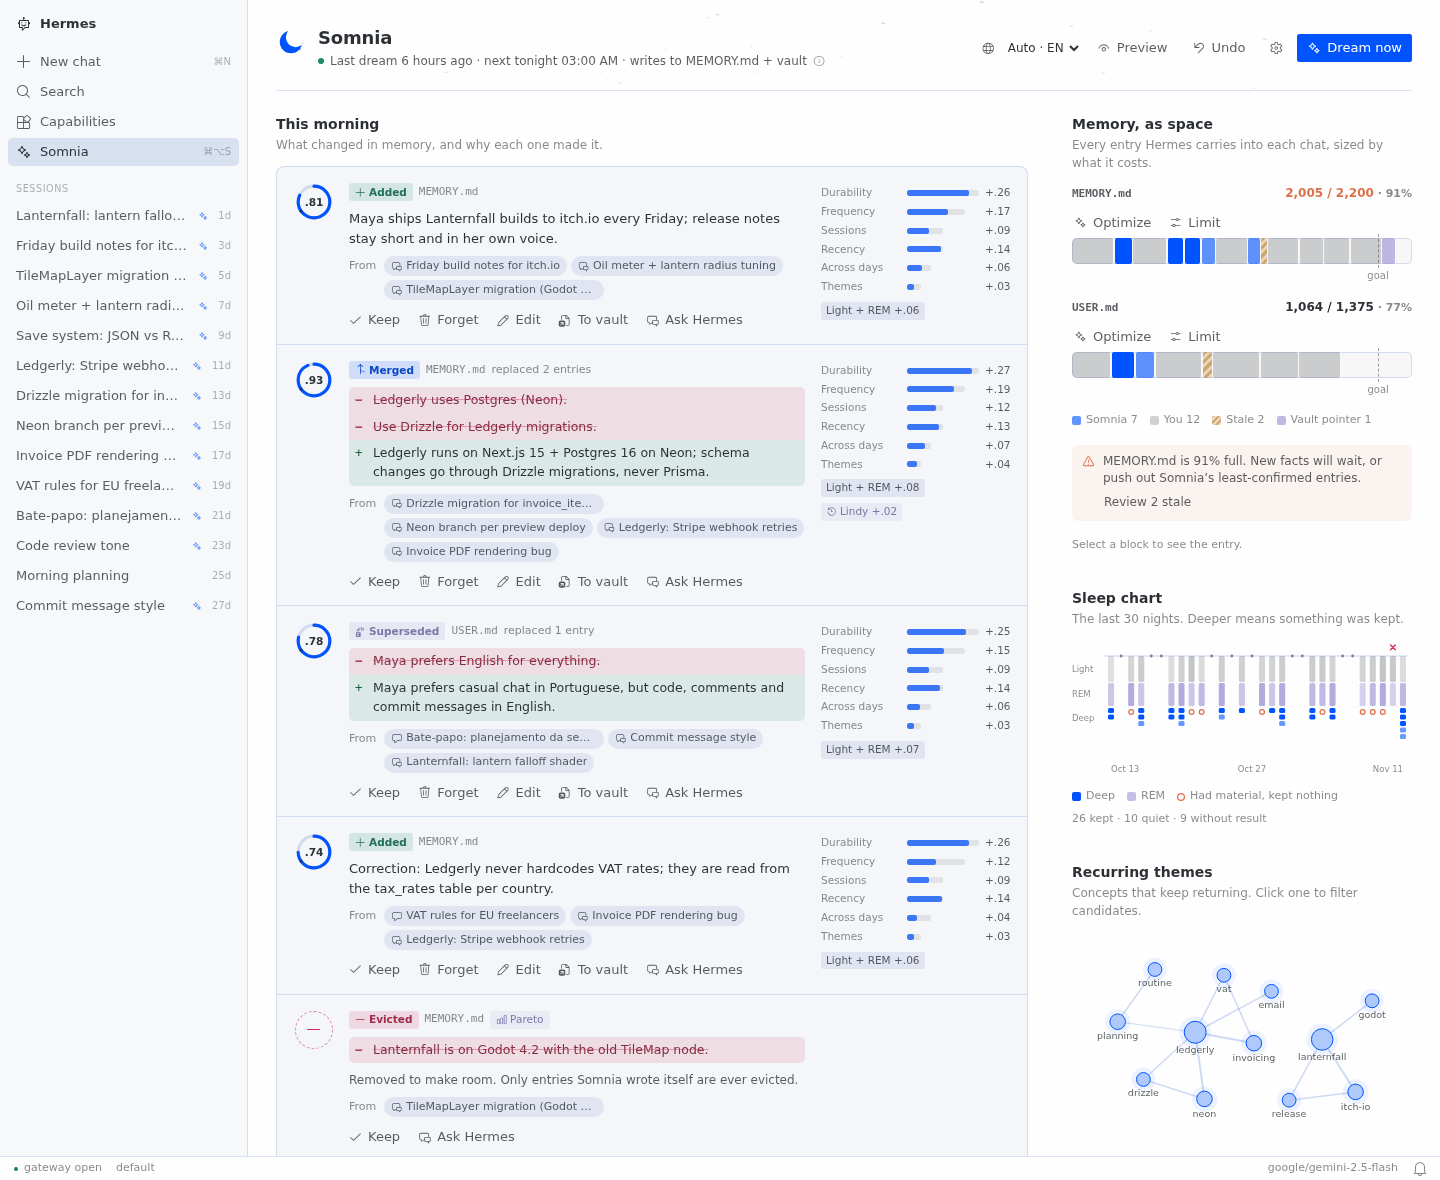
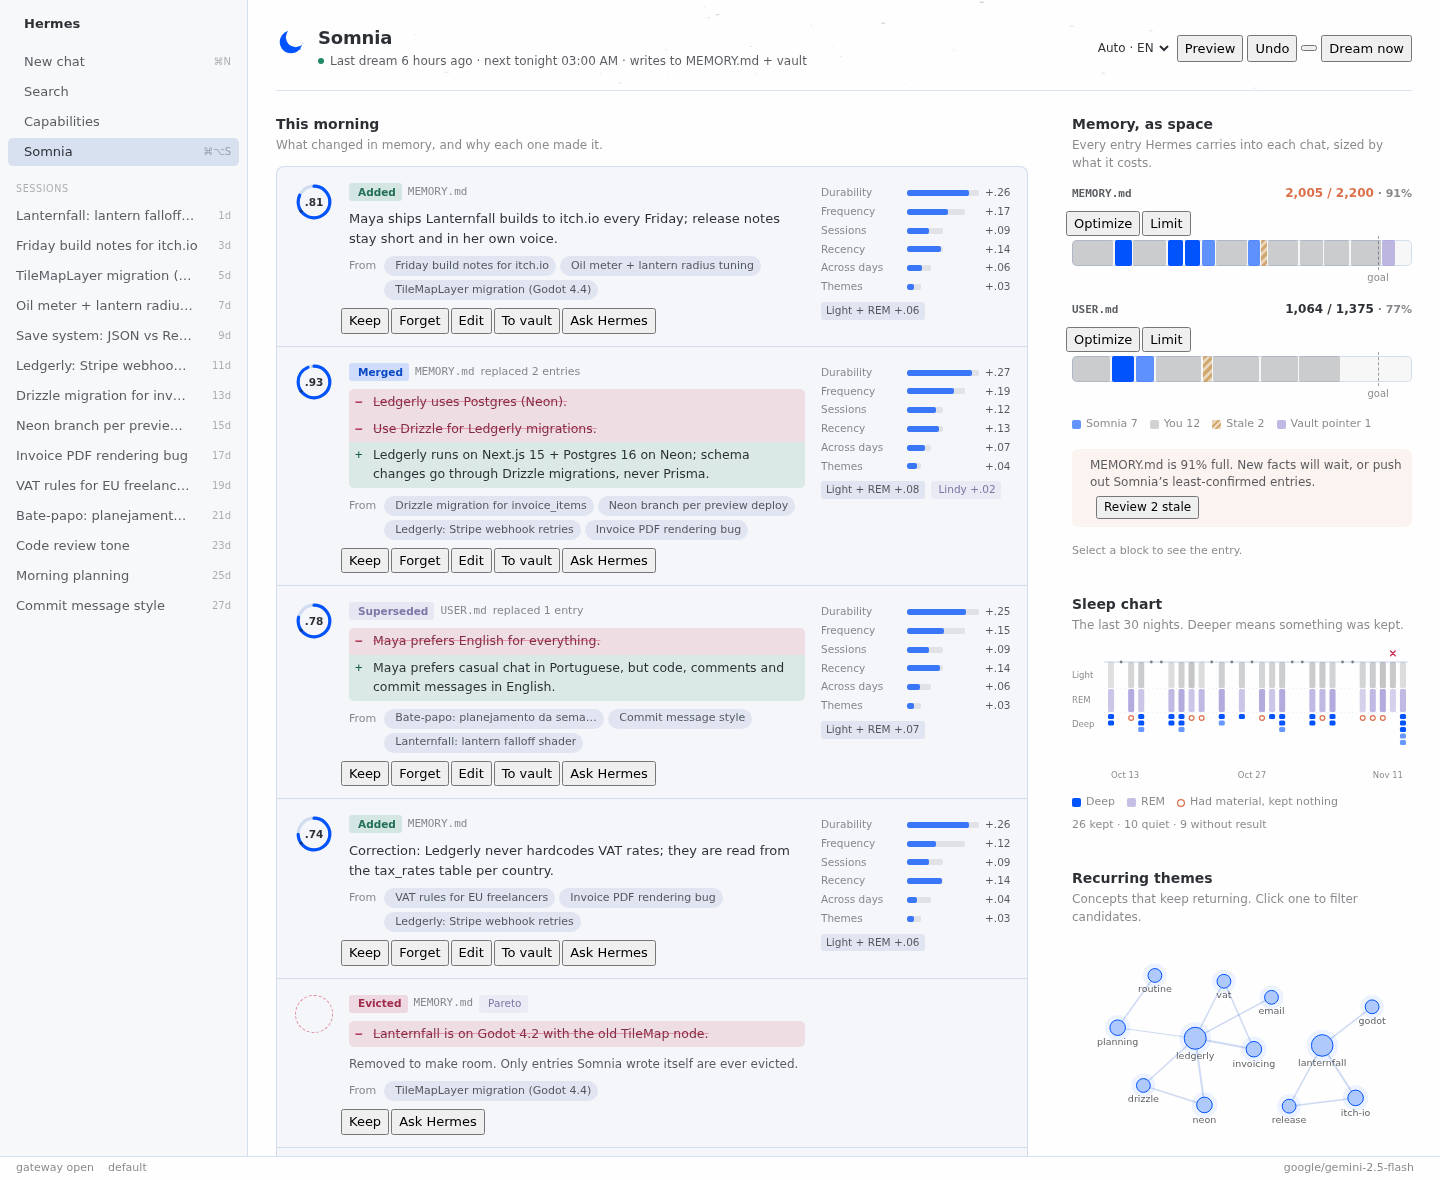
fix: Somnia 0.3.2 — new-chat card stacks the label over the fact, skips forgotten facts
- The "Last night I remembered" card in an empty chat now puts the label on top and the fact below
  (up to 3 lines, full text on hover), with "+N more" when the night kept more than one fact.
- Facts you forgot no longer show up in that card.
- README screenshots regenerated.

diff --git a/desktop/plugin.js b/desktop/plugin.js
@@ -474,7 +474,8 @@ const EN = {
     statusNew: n => `${n} new`,
     statusTip: n => `Somnia remembered ${n} ${plural(n, 'thing', 'things')} last night`,
     fed: n => `Fed ${n} ${plural(n, 'memory', 'memories')}`,
-    emptyChat: 'Last night I remembered:',
+    emptyChat: 'Last night I remembered',
+    emptyChatMore: n => `+${n} more`,
     open: 'Open Somnia',
     card: 'Somnia memory',
     reallyForget: 'Really forget?',
@@ -818,7 +819,8 @@ const PT = {
     statusNew: n => `${n} ${plural(n, 'novo', 'novos')}`,
     statusTip: n => `O Somnia lembrou ${n} ${plural(n, 'coisa', 'coisas')} esta noite`,
     fed: n => `Alimentou ${n} ${plural(n, 'memória', 'memórias')}`,
-    emptyChat: 'Esta noite eu lembrei:',
+    emptyChat: 'Esta noite eu lembrei',
+    emptyChatMore: n => `+${n} ${plural(n, 'outra', 'outras')}`,
     open: 'Abrir Somnia',
     card: 'Memória do Somnia',
     reallyForget: 'Esquecer mesmo?',
@@ -2905,15 +2907,18 @@ function ChatEmptyLine() {
   const fresh = !!(ov && ov.last_run && nowS() - ov.last_run.at < 1.5 * DAY_S)
   const q = useChanges(null)
   if (!fresh || !q.data) return null
-  const first = (q.data.changes || []).find(c => ['added', 'merged', 'superseded', 'vault'].includes(c.action))
-  if (!first) return null
+  const kept = (q.data.changes || []).filter(c => !c.forgotten && ['added', 'merged', 'superseded', 'vault'].includes(c.action))
+  if (!kept.length) return null
+  const more = kept.length - 1
   return h(
     'div',
     { className: 'smn-chat-empty' },
-    h('button', { type: 'button', className: 'smn-chat-empty-line', onClick: () => go(ROUTE) },
-      h(Icon, { name: 'sparkle', size: '0.75rem' }),
-      h('span', { className: 'smn-meta' }, t('surfaces.emptyChat')),
-      h('span', { className: 'smn-chat-empty-text' }, first.text))
+    h('button', { type: 'button', className: 'smn-chat-empty-line', title: kept[0].text, onClick: () => go(ROUTE) },
+      h('span', { className: 'smn-chat-empty-head' },
+        h(Icon, { name: 'sparkle', size: '0.75rem' }),
+        h('span', null, t('surfaces.emptyChat')),
+        more > 0 ? h('span', { className: 'smn-chat-empty-more' }, t('surfaces.emptyChatMore', more)) : null),
+      h('span', { className: 'smn-chat-empty-text' }, kept[0].text))
   )
 }
 
@@ -3261,10 +3266,13 @@ textarea.smn-textarea-native{padding:6px 8px;border-radius:4px;border:1px solid 
 .smn-status:hover{background:var(--chrome-action-hover)}
 .smn-fed{display:inline-flex;align-items:center;color:color-mix(in srgb,var(--ui-accent) 80%,transparent);margin:0 2px}
 .smn-chat-empty{display:flex;justify-content:center;padding:12px}
-.smn-chat-empty-line{display:inline-flex;align-items:baseline;gap:6px;max-width:min(560px,90%);border:0;background:transparent;font:inherit;font-size:0.75rem;color:var(--ui-text-secondary);cursor:pointer;padding:4px 8px;border-radius:4px}
-.smn-chat-empty-line:hover{background:var(--chrome-action-hover);color:var(--ui-text-primary)}
-.smn-chat-empty-line>.codicon,.smn-chat-empty-line>i{color:var(--ui-accent);align-self:center}
-.smn-chat-empty-text{overflow:hidden;text-overflow:ellipsis;white-space:nowrap}
+.smn-chat-empty-line{display:flex;flex-direction:column;align-items:flex-start;gap:4px;width:min(560px,90%);border:1px solid var(--ui-stroke-tertiary);background:transparent;font:inherit;text-align:left;cursor:pointer;padding:10px 12px;border-radius:8px}
+.smn-chat-empty-line:hover{background:var(--chrome-action-hover)}
+.smn-chat-empty-head{display:flex;align-items:center;gap:6px;width:100%;font-size:0.6875rem;color:var(--ui-text-tertiary);white-space:nowrap}
+.smn-chat-empty-head>.codicon,.smn-chat-empty-head>i{color:var(--ui-accent)}
+.smn-chat-empty-more{margin-left:auto;padding-left:8px}
+.smn-chat-empty-text{font-size:0.8125rem;line-height:1.45;color:var(--ui-text-secondary);display:-webkit-box;-webkit-line-clamp:3;-webkit-box-orient:vertical;overflow:hidden}
+.smn-chat-empty-line:hover .smn-chat-empty-text{color:var(--ui-text-primary)}
 .smn-card{display:flex;flex-direction:column;gap:10px;max-width:560px;margin:6px 0;padding:12px 14px 8px;border-radius:8px;border:1px solid var(--ui-stroke-tertiary);background:var(--ui-bg-card,transparent);font-size:0.8125rem;color:var(--ui-text-primary);user-select:text}
 .smn-card-muted{flex-direction:row;align-items:center;gap:8px;padding:8px 12px;color:var(--ui-text-tertiary)}
 .smn-card-head{display:flex;align-items:center;gap:6px;flex-wrap:wrap}

diff --git a/hermes_somnia/__init__.py b/hermes_somnia/__init__.py
@@ -1,3 +1,3 @@
 """Somnia (hermes-somnia): OpenClaw-style memory dreaming (Light -> REM -> Deep) for Hermes Agent."""
 
-__version__ = "0.3.1"
+__version__ = "0.3.2"
